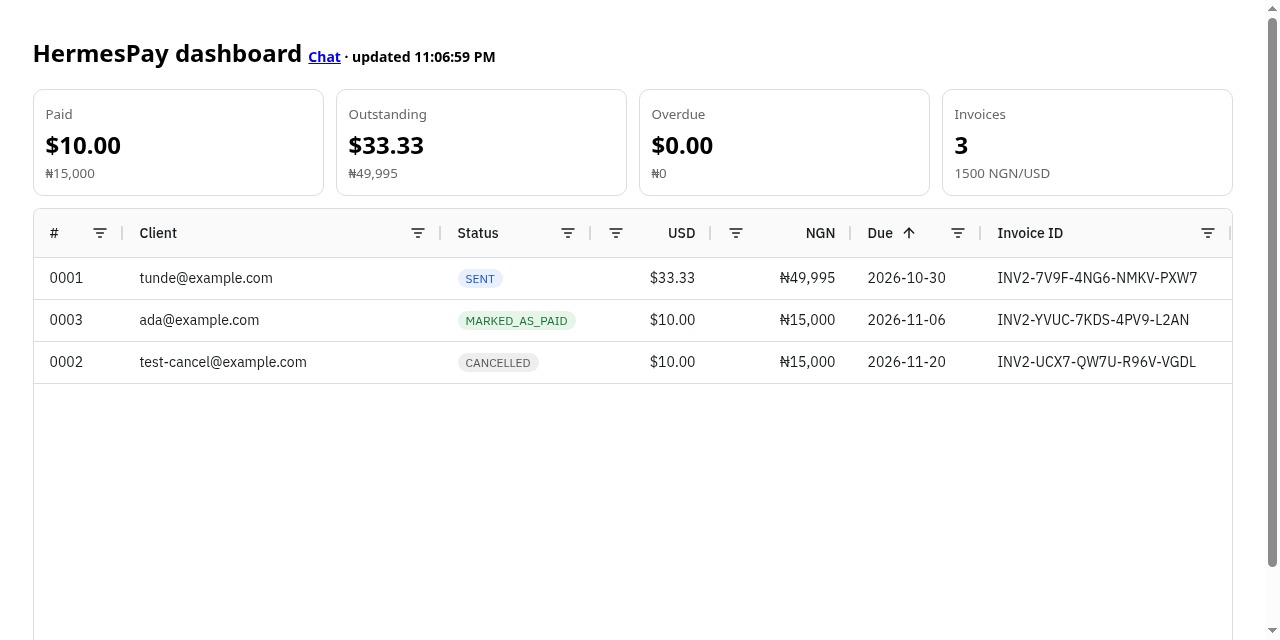
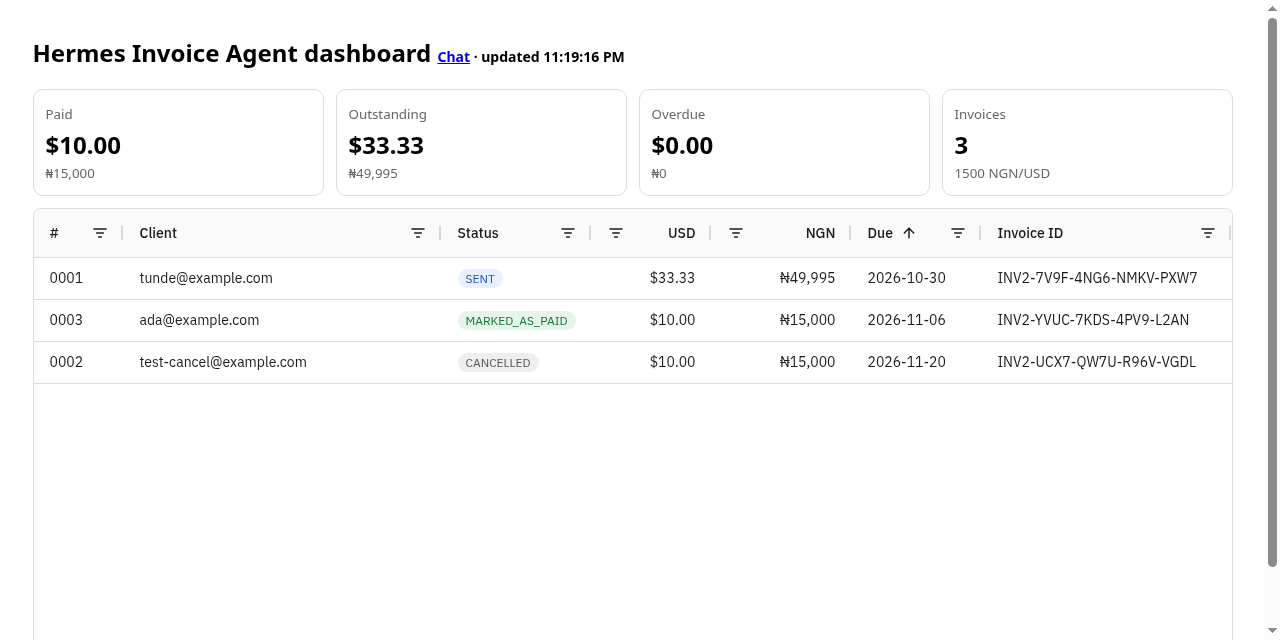
Rename project to Hermes Invoice Agent; set tsconfig rootDir

Changed region(s): [[0.0938, 0.0625, 0.5, 0.125]]

diff --git a/public/dashboard.html b/public/dashboard.html
@@ -1,11 +1,11 @@
-<!doctype html><html><head><meta charset="utf-8"><meta name="viewport" content="width=device-width,initial-scale=1"><title>HermesPay dashboard</title>
+<!doctype html><html><head><meta charset="utf-8"><meta name="viewport" content="width=device-width,initial-scale=1"><title>Hermes Invoice Agent dashboard</title>
 <script src="/vendor/ag-grid/ag-grid-community.min.js"></script>
 <style>body{font-family:system-ui,sans-serif;margin:0 auto;max-width:1200px;padding:16px}.cards{display:flex;flex-wrap:wrap;gap:12px;margin:12px 0}
 .card{flex:1;min-width:160px;border:1px solid #ddd;border-radius:10px;padding:12px}.card b{display:block;font-size:24px;margin-top:4px}.card small{color:#666}
 #grid{height:480px}.overdue{background:#fdecea!important}.pill{padding:2px 8px;border-radius:10px;font-size:12px}
 .PAID,.MARKED_AS_PAID{background:#e6f4ea;color:#137333}.SENT,.UNPAID{background:#e8f0fe;color:#1a56c4}.CANCELLED{background:#eee;color:#555}.OVERDUE{background:#fce8e6;color:#c5221f}
 #toast{position:fixed;right:16px;bottom:16px;background:#137333;color:#fff;padding:10px 14px;border-radius:8px;display:none}</style></head>
-<body><h2>HermesPay dashboard <small style="font-size:14px"><a href="/">Chat</a> · <span id="upd"></span></small></h2>
+<body><h2>Hermes Invoice Agent dashboard <small style="font-size:14px"><a href="/">Chat</a> · <span id="upd"></span></small></h2>
 <div class="cards"><div class="card"><small>Paid</small><b id="paid">-</b><small id="paidn"></small></div><div class="card"><small>Outstanding</small><b id="out">-</b><small id="outn"></small></div>
 <div class="card"><small>Overdue</small><b id="od">-</b><small id="odn"></small></div><div class="card"><small>Invoices</small><b id="cnt">-</b><small id="rate"></small></div></div>
 <div id="grid"></div><div id="toast"></div>

diff --git a/public/index.html b/public/index.html
@@ -1,8 +1,8 @@
-<!doctype html><html><head><meta charset="utf-8"><meta name="viewport" content="width=device-width,initial-scale=1"><title>HermesPay</title>
+<!doctype html><html><head><meta charset="utf-8"><meta name="viewport" content="width=device-width,initial-scale=1"><title>Hermes Invoice Agent</title>
 <style>body{font-family:system-ui,sans-serif;max-width:760px;margin:0 auto;padding:16px}#log{border:1px solid #ccc;border-radius:8px;height:60vh;overflow:auto;padding:12px}
 .m{margin:8px 0;white-space:pre-wrap}.u{text-align:right}.u span{background:#e8f0fe}.m span{display:inline-block;padding:8px 12px;border-radius:12px;background:#f3f3f3}
 .c{border:1px solid #f0b400;border-radius:8px;padding:10px;background:#fff8e1}button{margin:4px;padding:6px 12px}#f{display:flex;gap:8px;margin-top:8px}#f input{flex:1;padding:10px}</style></head>
-<body><h2>HermesPay <small style="font-size:14px"><a href="/dashboard">Dashboard</a></small></h2><div id="log"></div><div id="f"><input id="i" placeholder="bill tunde@example.com 50k naira for logo design due Friday"><button id="s">Send</button></div>
+<body><h2>Hermes Invoice Agent <small style="font-size:14px"><a href="/dashboard">Dashboard</a></small></h2><div id="log"></div><div id="f"><input id="i" placeholder="bill tunde@example.com 50k naira for logo design due Friday"><button id="s">Send</button></div>
 <script>
 let session=null;const log=document.getElementById('log'),inp=document.getElementById('i');
 function add(t,c){const d=document.createElement('div');d.className='m '+(c||'');const s=document.createElement('span');s.textContent=t;d.appendChild(s);log.appendChild(d);log.scrollTop=1e9;return d}

diff --git a/src/agent.ts b/src/agent.ts
@@ -42,7 +42,7 @@ export function describe(name: string, a: any): string {
 
 function system() {
   const d = new Date();
-  return `You are HermesPay, an invoicing assistant for freelancers and small businesses (often in Nigeria). Today is ${d.toDateString()} (${d.toISOString().slice(0, 10)}). Resolve relative dates like "Friday" to the next such date as YYYY-MM-DD. PayPal invoices are issued in USD; naira amounts are converted at ${P.ngnPerUsd()} NGN per USD. Be brief. Never invent invoice ids; list invoices first if needed.`;
+  return `You are Hermes Invoice Agent, an invoicing assistant for freelancers and small businesses (often in Nigeria). Today is ${d.toDateString()} (${d.toISOString().slice(0, 10)}). Resolve relative dates like "Friday" to the next such date as YYYY-MM-DD. PayPal invoices are issued in USD; naira amounts are converted at ${P.ngnPerUsd()} NGN per USD. Be brief. Never invent invoice ids; list invoices first if needed.`;
 }
 
 function jsonInstructions() {

diff --git a/src/server.ts b/src/server.ts
@@ -35,5 +35,5 @@ app.post("/api/confirm", async (req, res) => {
 app.get("/api/invoices", async (_q, r) => { try { r.json(await listInvoices()); } catch (e: any) { r.status(500).json({ error: e.message }); } });
 app.get("/api/cashflow", async (_q, r) => { try { r.json(await cashflow()); } catch (e: any) { r.status(500).json({ error: e.message }); } });
 const port = Number(process.env.PORT || 3000);
-app.listen(port, () => console.log(`HermesPay on http://localhost:${port}`, agentMode()));
+app.listen(port, () => console.log(`Hermes Invoice Agent on http://localhost:${port}`, agentMode()));
 startPolling();

diff --git a/README.md b/README.md
@@ -1,7 +1,7 @@
-# HermesPay
+# Hermes Invoice Agent
 
 Chat-first invoicing agent for freelancers and small businesses. Type
-`bill tunde@example.com 50k naira for logo design due Friday` and HermesPay drafts a PayPal invoice,
+`bill tunde@example.com 50k naira for logo design due Friday` and Hermes Invoice Agent drafts a PayPal invoice,
 shows a confirmation card, and on approval creates and emails it via the PayPal Invoicing v2 API.
 
 ## Features
